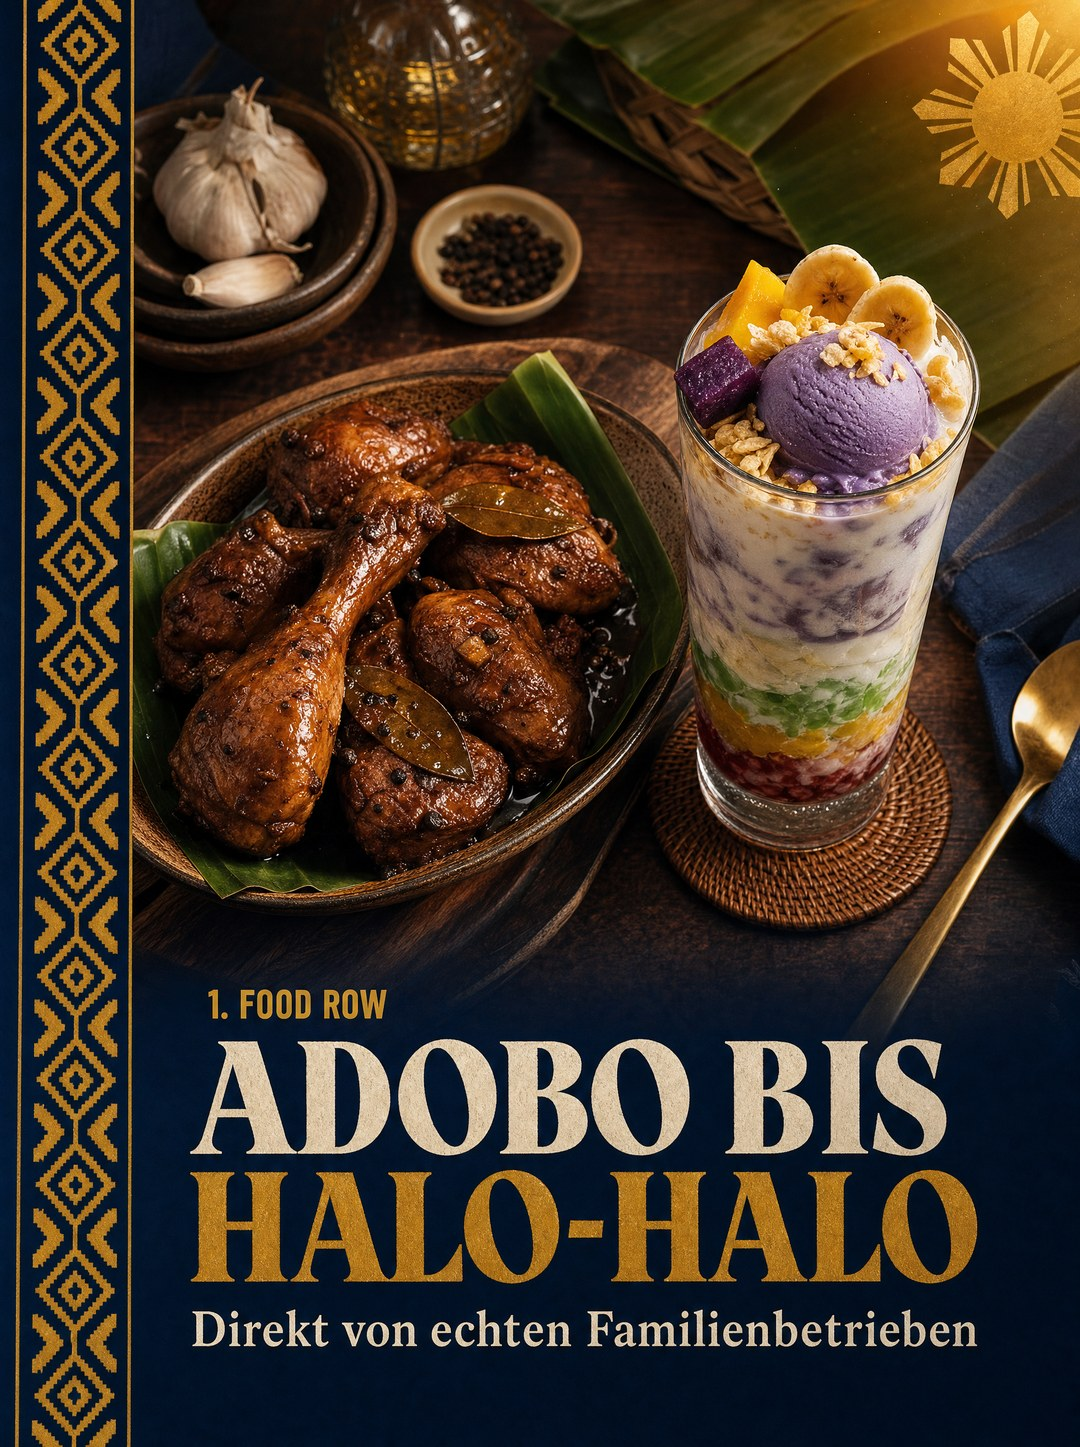
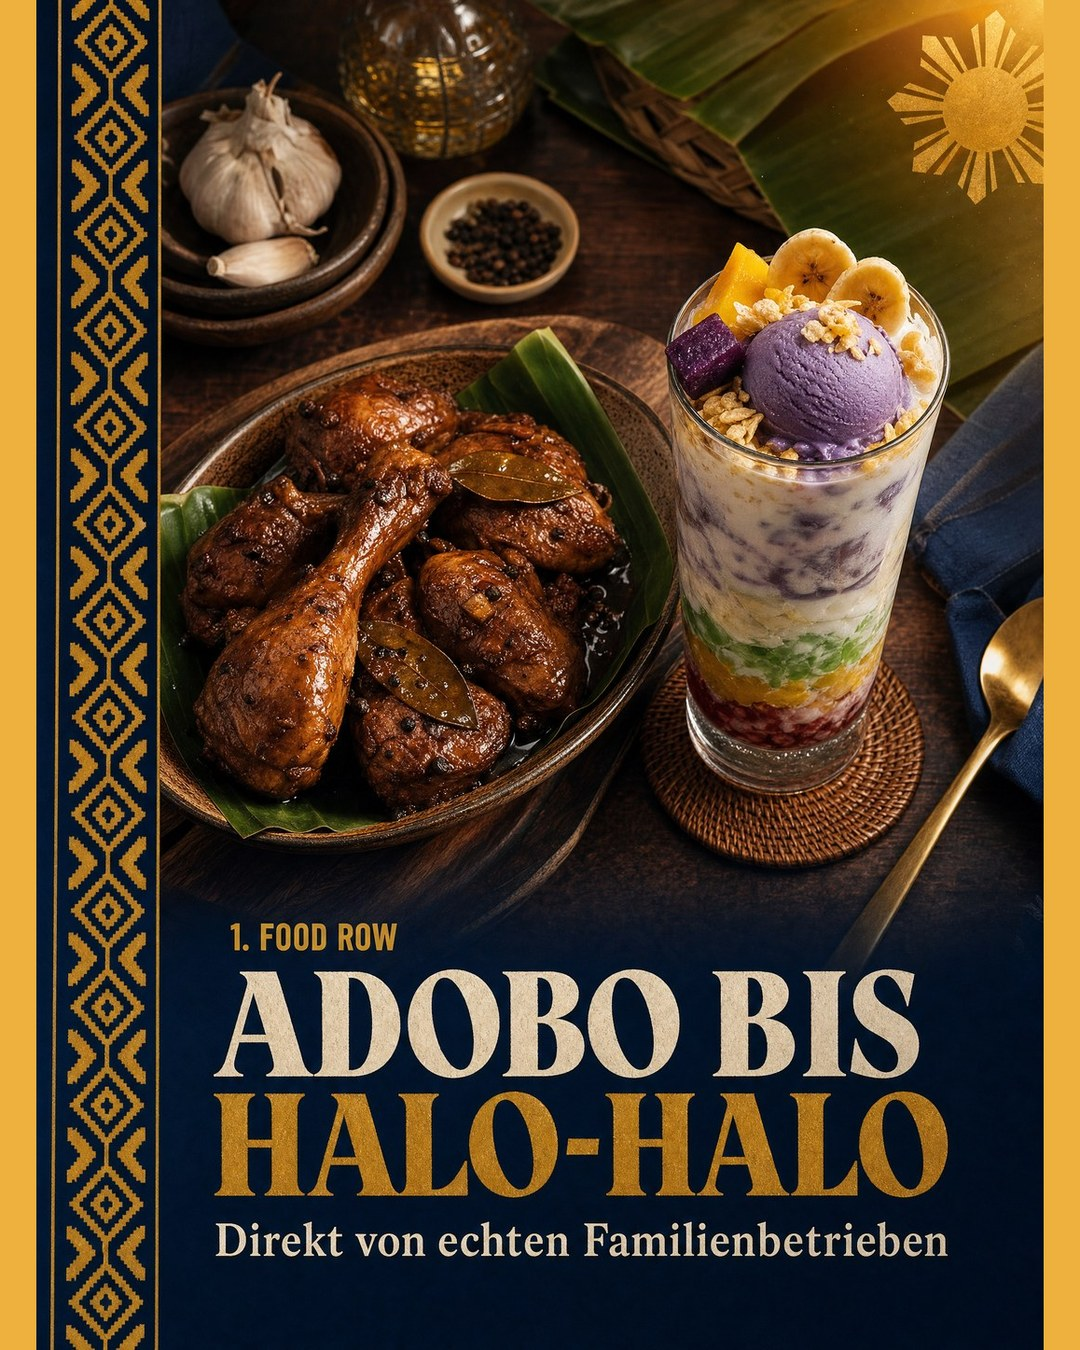
Fix all feed images to IG 4:5; schedule P6 (Street Food), P7 (Geschichte), P8 (Vendor)
- crop_feed.py: pad-to-4:5 so nothing clips (posters carry logo top + text bottom)
- re-crop P3 5-Dinge JPEGs to 1080x1350 (were 0.747, IG-invalid) before 15.07 post
- add P6/P7/P8 carousels + single with captions and plan-matching dates

diff --git a/crop_feed.py b/crop_feed.py
@@ -1,0 +1,109 @@
+"""
+Crop feed images to Instagram's 4:5 (1080x1350) and write IG-ready JPEGs.
+
+Instagram feed (incl. carousels) only accepts aspect ratios from 4:5 (0.8) to
+1.91:1. Our poster masters come in 3:4 (0.747, Higgsfield) or 2:3 (0.667,
+ChatGPT) — both too tall. This center-crops the excess height, resizes to
+1080x1350, and writes JPEG q88 into images/.
+
+Bias: posters carry the logo near the top and the headline/subtitle near the
+bottom. A symmetric center-crop keeps both because the ChatGPT masters were
+prompted with a 12% safe zone and the Higgsfield masters only lose ~3% per edge.
+
+Usage:
+    python crop_feed.py            # process the flat feed PNGs in Ready to Post
+    python crop_feed.py --test     # write 2 test crops into _croptest/ only
+"""
+import os
+import sys
+from PIL import Image
+
+HERE = os.path.dirname(__file__)
+RTP = os.path.expanduser(
+    "~/Desktop/JR /Bilder/JR Design/JR DESIGN/BLACKPRINT STUDIO/Claude Code/"
+    "Projects/Mabuhay - Filipino Culture Festival/Marketing/Ready to Post"
+)
+OUT = os.path.join(HERE, "images")
+TARGET_W, TARGET_H = 1080, 1350        # Instagram 4:5
+TARGET_RATIO = TARGET_W / TARGET_H     # 0.8
+BG = (15, 30, 61)
+TOP_BIAS = 0.5   # 0.5 = symmetric; lower keeps more of the bottom
+
+
+def slug(name):
+    base = os.path.splitext(name)[0].lower().replace("ß", "ss")
+    out = []
+    for ch in base:
+        if ch.isalnum():
+            out.append(ch)
+        elif ch in " -_":
+            out.append("-")
+    s = "".join(out)
+    while "--" in s:
+        s = s.replace("--", "-")
+    return s.strip("-") + ".jpg"
+
+
+def _bg_color(im):
+    """Sample the top-right corner (background, never the left gold border)."""
+    w, h = im.size
+    patch = im.crop((w - 40, 0, w, 40)).resize((1, 1), Image.LANCZOS)
+    return patch.getpixel((0, 0))
+
+
+def crop_to_45(im):
+    """Fit to 4:5 WITHOUT clipping content: too-tall posters get matching
+    side-bars in the sampled background colour (logo top + text bottom stay
+    intact); too-wide images are centre-cropped on width."""
+    im = im.convert("RGB")
+    w, h = im.size
+    ratio = w / h
+    if ratio < TARGET_RATIO:            # too tall -> pad width with bg colour
+        new_w = round(h * TARGET_RATIO)
+        canvas = Image.new("RGB", (new_w, h), _bg_color(im))
+        canvas.paste(im, ((new_w - w) // 2, 0))
+        im = canvas
+    elif ratio > TARGET_RATIO:          # too wide -> trim width
+        new_w = round(h * TARGET_RATIO)
+        left = (w - new_w) // 2
+        im = im.crop((left, 0, left + new_w, h))
+    return im.resize((TARGET_W, TARGET_H), Image.LANCZOS)
+
+
+def process(src_path, dst_path):
+    im = crop_to_45(Image.open(src_path))
+    im.save(dst_path, "JPEG", quality=88, optimize=True, progressive=True)
+    return os.path.getsize(dst_path)
+
+
+def feed_pngs():
+    # flat PNGs directly in Ready to Post (skips the Story/ subfolder)
+    return sorted(
+        f for f in os.listdir(RTP)
+        if f.lower().endswith(".png") and os.path.isfile(os.path.join(RTP, f))
+    )
+
+
+def main():
+    test = "--test" in sys.argv
+    if test:
+        out_dir = os.path.join(HERE, "_croptest")
+        os.makedirs(out_dir, exist_ok=True)
+        picks = [
+            "P7 - Carousel Slide 4 - Geschichte.png",   # tight bottom text
+            "P7 - Carousel Slide 7 - Geschichte.png",   # logo at top (ChatGPT 2:3)
+            "P8 - Feed - Vendor Call.png",              # logo at top (ChatGPT 2:3)
+        ]
+        for f in picks:
+            size = process(os.path.join(RTP, f), os.path.join(out_dir, slug(f)))
+            print(f"  {f}  ->  _croptest/{slug(f)}  ({size//1024} KB)")
+        return
+
+    os.makedirs(OUT, exist_ok=True)
+    for f in feed_pngs():
+        size = process(os.path.join(RTP, f), os.path.join(OUT, slug(f)))
+        print(f"  {f}  ->  images/{slug(f)}  ({size//1024} KB)")
+
+
+if __name__ == "__main__":
+    main()
